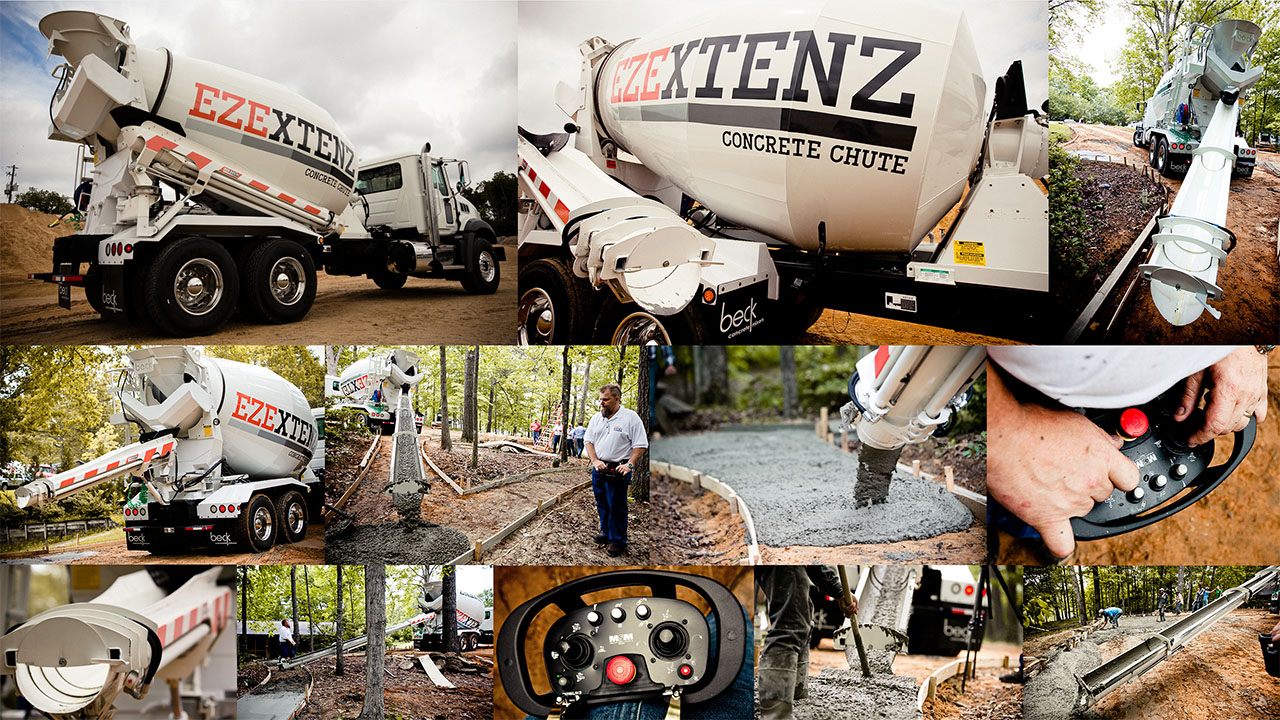
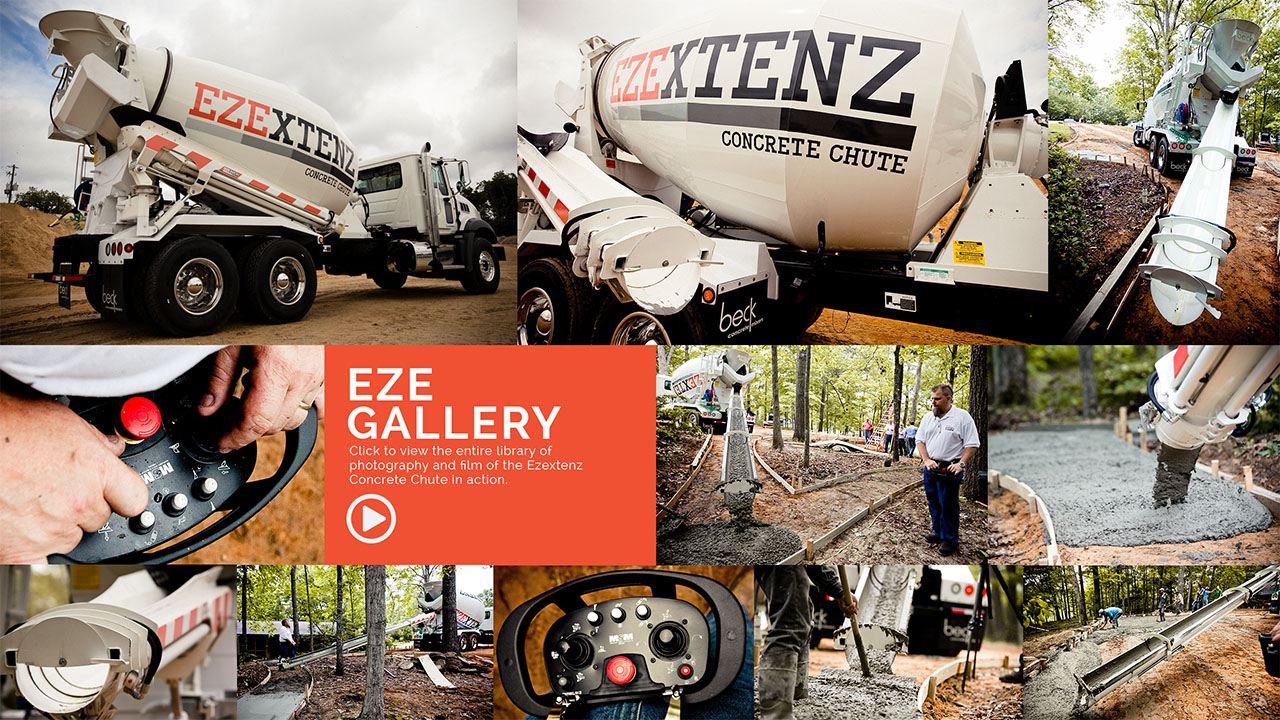
gallery-bg

diff --git a/_includes/gallery.html b/_includes/gallery.html
@@ -1,22 +1,1 @@
-<!--
-<div class="gallery">
-	<div class="row-1">
-		<div class="col-1"><img class="img-responsive" src="./images/gallery/1.jpg" alt="1" /></div>
-		<div class="col-2"><img class="img-responsive" src="./images/gallery/2.jpg" alt="2" /></div>
-		<div class="col-3"><img class="img-responsive" src="./images/gallery/3.jpg" alt="3" /></div>
-	</div>
-	<div class="row-2">
-		<div class="col-1"><img class="img-responsive" src="./images/gallery/4.jpg" alt="4" /></div>
-		<div class="col-2"><img class="img-responsive" src="./images/gallery/5.jpg" alt="5" /></div>
-		<div class="col-3"><img class="img-responsive" src="./images/gallery/6.jpg" alt="6" /></div>
-		<div class="col-4"><img class="img-responsive" src="./images/gallery/7.jpg" alt="7" /></div>
-	</div>
-	<div class="row-3">
-		<div class="col-1"><img class="img-responsive" src="./images/gallery/8.jpg" alt="8" /></div>
-		<div class="col-2"><img class="img-responsive" src="./images/gallery/9.jpg" alt="9" /></div>
-		<div class="col-3"><img class="img-responsive" src="./images/gallery/10.jpg" alt="10" /></div>
-		<div class="col-4"><img class="img-responsive" src="./images/gallery/11.jpg" alt="11" /></div>
-		<div class="col-5"><img class="img-responsive" src="./images/gallery/12.jpg" alt="12" /></div>
-	</div>
-</div>
--->
+<a href="#"><div class="gallery fluid-height"></div></a>

diff --git a/_assets/stylesheets/styles.css.less b/_assets/stylesheets/styles.css.less
@@ -251,10 +251,8 @@ body {
   /* GALLERY */
 
   [data-cycle-hash="chute-gallery"] {
-    //background: url(../images/gallery-bg.jpg) no-repeat left top 85px fixed;
-    //.background-size(cover);
-    padding-left:	0;
-    padding-right:	0;
+    background: url(../images/gallery-bg.jpg) no-repeat left top 85px fixed;
+    .background-size(cover);
   }
 
 
